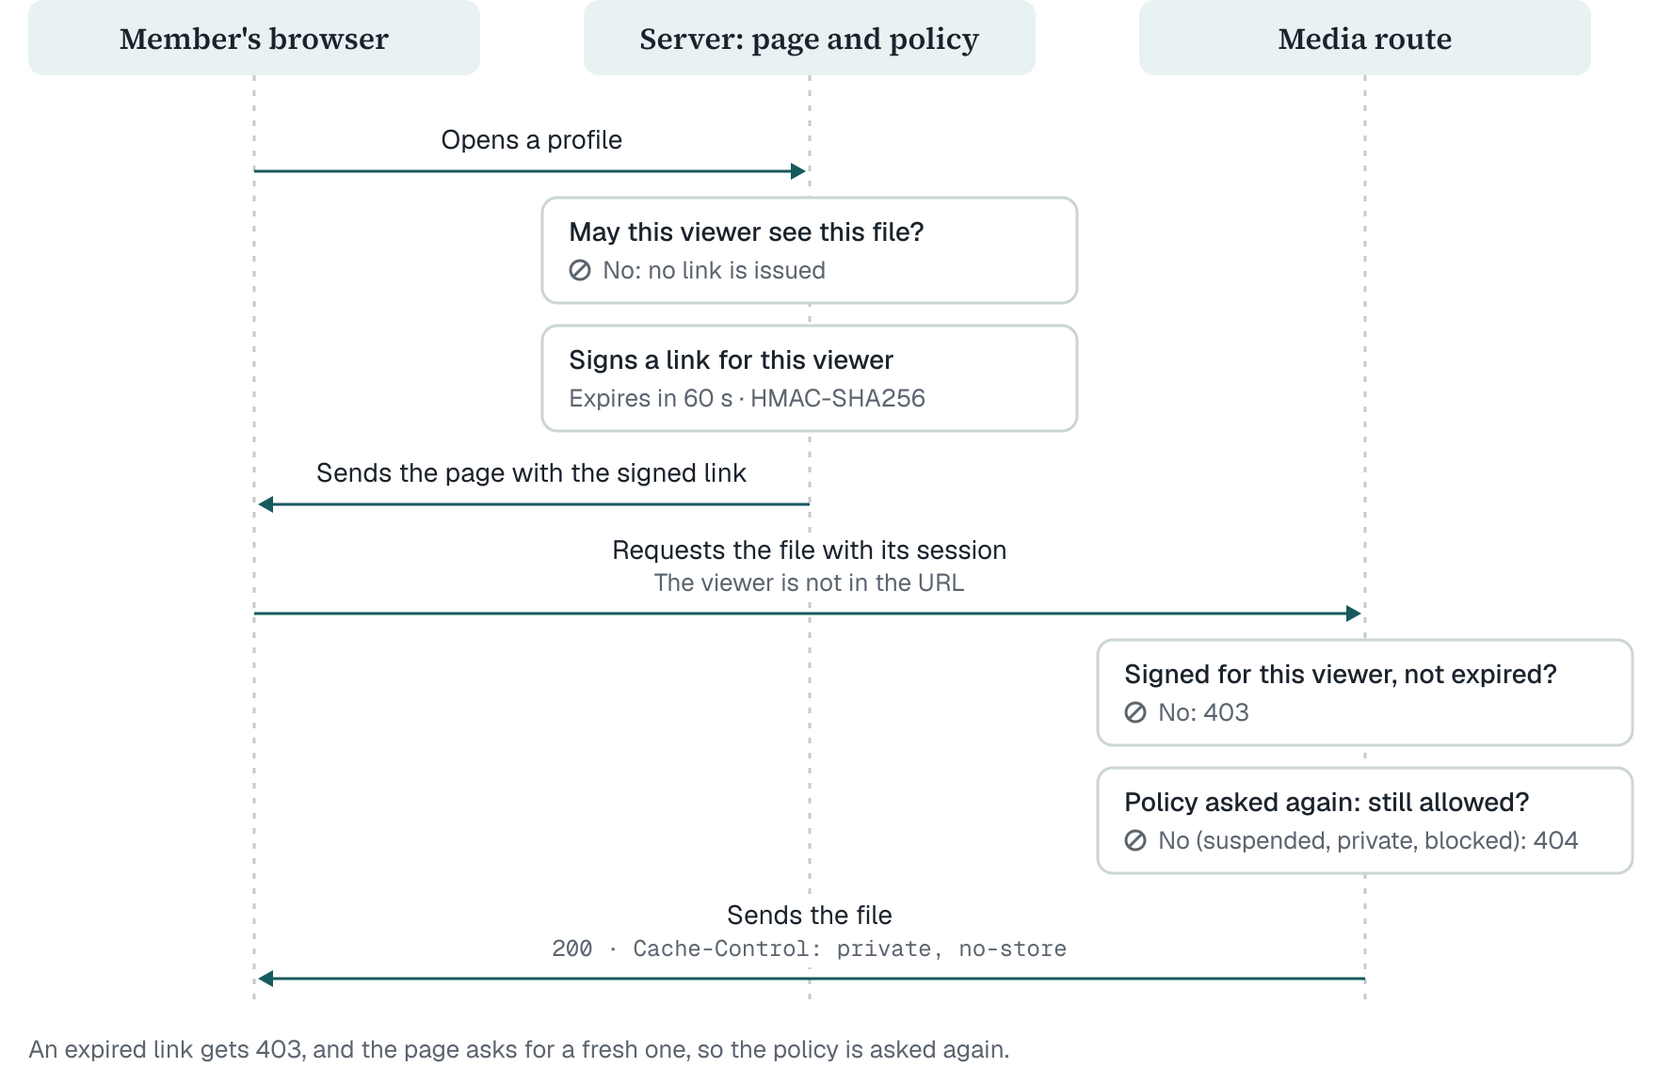
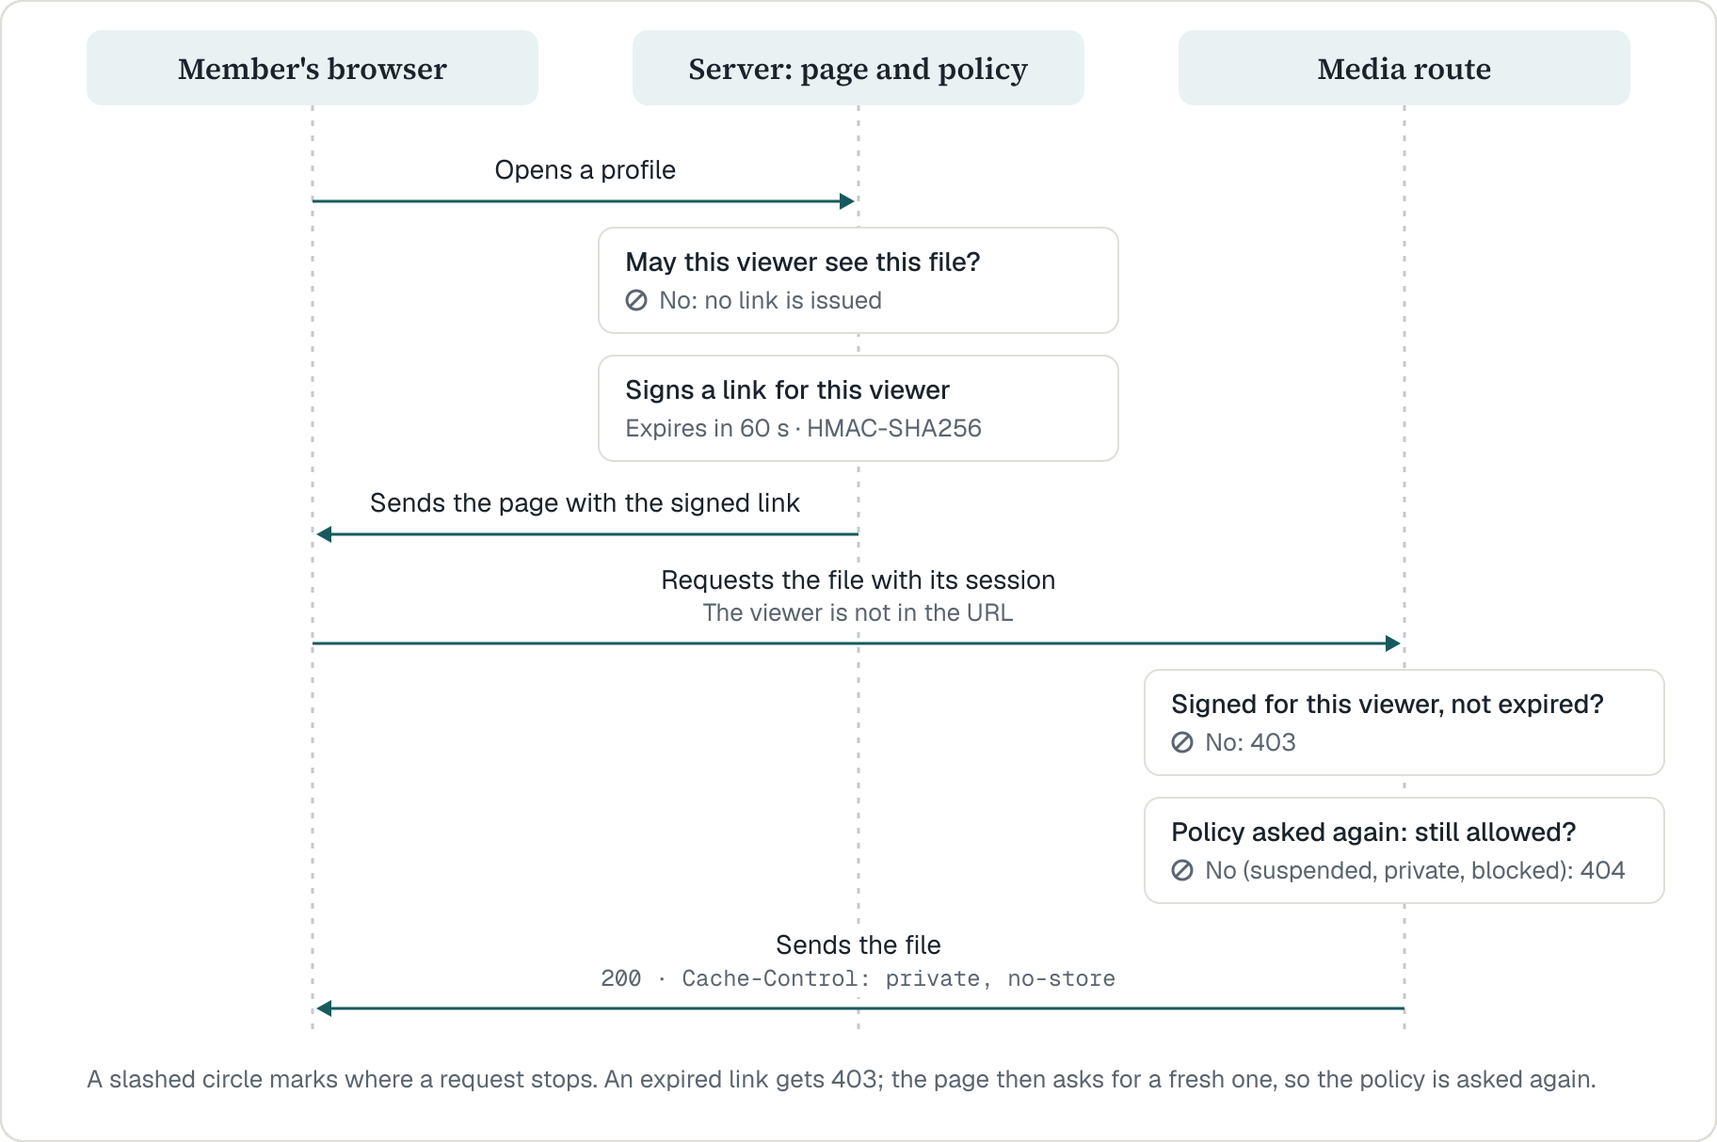
Draw the signed-link diagram at its natural size below 1024 px
Centre the three lanes, outline the boxes in the border colour and draw the
lifelines in muted grey at 35%. The caption names the slashed circle instead
of a colour code, and the README image gets a margin and a thin frame.

diff --git a/components/signed-link-diagram.tsx b/components/signed-link-diagram.tsx
@@ -7,58 +7,58 @@ const SUMMARY =
 
 export function SignedLinkDiagram() {
   return (
-    <figure className="flex flex-col gap-3 rounded-xl bg-card p-3 ring-1 ring-foreground/10 sm:p-5" data-testid="signed-link-diagram">
+    <figure className="flex w-full max-w-[364px] flex-col gap-3 rounded-xl bg-card p-3 ring-1 ring-foreground/10 sm:max-w-[380px] sm:p-5 lg:max-w-none" data-testid="signed-link-diagram">
       <div role="img" aria-label={SUMMARY}>
         <svg viewBox="0 0 880 536" className="hidden h-auto w-full lg:block" aria-hidden="true" focusable="false">
-          <line x1={135} y1={40} x2={135} y2={532} stroke="#c3cccb" strokeWidth={1.5} strokeDasharray="3 5" />
-          <rect x={15} y={0} width={240} height={40} rx={8} fill="#e9f2f3" />
-          <text className="font-heading" x={135} y={26} fontSize={16} fill="#1a222b" fontWeight={600} textAnchor="middle">{"Member's browser"}</text>
-          <line x1={430} y1={40} x2={430} y2={532} stroke="#c3cccb" strokeWidth={1.5} strokeDasharray="3 5" />
-          <rect x={310} y={0} width={240} height={40} rx={8} fill="#e9f2f3" />
-          <text className="font-heading" x={430} y={26} fontSize={16} fill="#1a222b" fontWeight={600} textAnchor="middle">{"Server: page and policy"}</text>
-          <line x1={725} y1={40} x2={725} y2={532} stroke="#c3cccb" strokeWidth={1.5} strokeDasharray="3 5" />
-          <rect x={605} y={0} width={240} height={40} rx={8} fill="#e9f2f3" />
-          <text className="font-heading" x={725} y={26} fontSize={16} fill="#1a222b" fontWeight={600} textAnchor="middle">{"Media route"}</text>
-          <rect x={227.1} y={66} width={110.9} height={19} rx={3} fill="#ffffff" />
-          <text className="font-sans" x={282.5} y={79} fontSize={14} fill="#1a222b" textAnchor="middle">{"Opens a profile"}</text>
-          <line x1={135} y1={91} x2={420} y2={91} stroke="#165a5e" strokeWidth={1.5} />
-          <path d="M428 91L420 86.5L420 95.5Z" fill="#165a5e" />
-          <rect x={288} y={105} width={284} height={56} rx={8} fill="#ffffff" stroke="#cbd5d5" strokeWidth={1.5} />
-          <text className="font-sans" x={302} y={128} fontSize={14} fill="#1a222b" fontWeight={500}>{"May this viewer see this file?"}</text>
-          <circle cx={308} cy={143.5} r={5} fill="none" stroke="#5b646f" strokeWidth={1.5} />
-          <line x1={304.7} y1={146.8} x2={311.3} y2={140.2} stroke="#5b646f" strokeWidth={1.5} />
-          <text className="font-sans" x={320} y={148} fontSize={13} fill="#5b646f">{"No: no link is issued"}</text>
-          <rect x={288} y={173} width={284} height={56} rx={8} fill="#ffffff" stroke="#cbd5d5" strokeWidth={1.5} />
-          <text className="font-sans" x={302} y={196} fontSize={14} fill="#1a222b" fontWeight={500}>{"Signs a link for this viewer"}</text>
-          <text className="font-sans" x={302} y={216} fontSize={13} fill="#5b646f">{"Expires in 60 s · HMAC-SHA256"}</text>
-          <rect x={160.4} y={243} width={244.1} height={19} rx={3} fill="#ffffff" />
-          <text className="font-sans" x={282.5} y={256} fontSize={14} fill="#1a222b" textAnchor="middle">{"Sends the page with the signed link"}</text>
-          <line x1={430} y1={268} x2={145} y2={268} stroke="#165a5e" strokeWidth={1.5} />
-          <path d="M137 268L145 263.5L145 272.5Z" fill="#165a5e" />
-          <rect x={316.5} y={284} width={227} height={19} rx={3} fill="#ffffff" />
-          <text className="font-sans" x={430} y={297} fontSize={14} fill="#1a222b" textAnchor="middle">{"Requests the file with its session"}</text>
-          <rect x={340.1} y={302} width={179.8} height={18} rx={3} fill="#ffffff" />
-          <text className="font-sans" x={430} y={314} fontSize={13} fill="#5b646f" textAnchor="middle">{"The viewer is not in the URL"}</text>
-          <line x1={135} y1={326} x2={715} y2={326} stroke="#165a5e" strokeWidth={1.5} />
-          <path d="M723 326L715 321.5L715 330.5Z" fill="#165a5e" />
-          <rect x={583} y={340} width={284} height={56} rx={8} fill="#ffffff" stroke="#cbd5d5" strokeWidth={1.5} />
-          <text className="font-sans" x={597} y={363} fontSize={14} fill="#1a222b" fontWeight={500}>{"Signed for this viewer, not expired?"}</text>
-          <circle cx={603} cy={378.5} r={5} fill="none" stroke="#5b646f" strokeWidth={1.5} />
-          <line x1={599.7} y1={381.8} x2={606.3} y2={375.2} stroke="#5b646f" strokeWidth={1.5} />
-          <text className="font-sans" x={615} y={383} fontSize={13} fill="#5b646f">{"No: 403"}</text>
-          <rect x={583} y={408} width={284} height={56} rx={8} fill="#ffffff" stroke="#cbd5d5" strokeWidth={1.5} />
-          <text className="font-sans" x={597} y={431} fontSize={14} fill="#1a222b" fontWeight={500}>{"Policy asked again: still allowed?"}</text>
-          <circle cx={603} cy={446.5} r={5} fill="none" stroke="#5b646f" strokeWidth={1.5} />
-          <line x1={599.7} y1={449.8} x2={606.3} y2={443.2} stroke="#5b646f" strokeWidth={1.5} />
-          <text className="font-sans" x={615} y={451} fontSize={13} fill="#5b646f">{"No (suspended, private, blocked): 404"}</text>
-          <rect x={379.2} y={478} width={101.6} height={19} rx={3} fill="#ffffff" />
-          <text className="font-sans" x={430} y={491} fontSize={14} fill="#1a222b" textAnchor="middle">{"Sends the file"}</text>
-          <rect x={287.2} y={497} width={285.6} height={17} rx={3} fill="#ffffff" />
-          <text className="font-mono" x={430} y={508} fontSize={12} fill="#5b646f" textAnchor="middle">{"200 · Cache-Control: private, no-store"}</text>
-          <line x1={725} y1={520} x2={145} y2={520} stroke="#165a5e" strokeWidth={1.5} />
-          <path d="M137 520L145 515.5L145 524.5Z" fill="#165a5e" />
+          <line x1={150} y1={40} x2={150} y2={532} stroke="#5b646f" strokeWidth={1.5} strokeOpacity="0.35" strokeDasharray="3 5" />
+          <rect x={30} y={0} width={240} height={40} rx={8} fill="#e9f2f3" />
+          <text className="font-heading" x={150} y={26} fontSize={16} fill="#1a222b" fontWeight={600} textAnchor="middle">{"Member's browser"}</text>
+          <line x1={440} y1={40} x2={440} y2={532} stroke="#5b646f" strokeWidth={1.5} strokeOpacity="0.35" strokeDasharray="3 5" />
+          <rect x={320} y={0} width={240} height={40} rx={8} fill="#e9f2f3" />
+          <text className="font-heading" x={440} y={26} fontSize={16} fill="#1a222b" fontWeight={600} textAnchor="middle">{"Server: page and policy"}</text>
+          <line x1={730} y1={40} x2={730} y2={532} stroke="#5b646f" strokeWidth={1.5} strokeOpacity="0.35" strokeDasharray="3 5" />
+          <rect x={610} y={0} width={240} height={40} rx={8} fill="#e9f2f3" />
+          <text className="font-heading" x={730} y={26} fontSize={16} fill="#1a222b" fontWeight={600} textAnchor="middle">{"Media route"}</text>
+          <rect x={239.6} y={66} width={110.9} height={19} rx={3} fill="#ffffff" />
+          <text className="font-sans" x={295} y={79} fontSize={14} fill="#1a222b" textAnchor="middle">{"Opens a profile"}</text>
+          <line x1={150} y1={91} x2={430} y2={91} stroke="#165a5e" strokeWidth={1.5} />
+          <path d="M438 91L430 86.5L430 95.5Z" fill="#165a5e" />
+          <rect x={302} y={105} width={276} height={56} rx={8} fill="#ffffff" stroke="#e0ded8" strokeWidth={1} />
+          <text className="font-sans" x={316} y={128} fontSize={14} fill="#1a222b" fontWeight={500}>{"May this viewer see this file?"}</text>
+          <circle cx={322} cy={143.5} r={5} fill="none" stroke="#5b646f" strokeWidth={1.5} />
+          <line x1={318.7} y1={146.8} x2={325.3} y2={140.2} stroke="#5b646f" strokeWidth={1.5} />
+          <text className="font-sans" x={334} y={148} fontSize={13} fill="#5b646f">{"No: no link is issued"}</text>
+          <rect x={302} y={173} width={276} height={56} rx={8} fill="#ffffff" stroke="#e0ded8" strokeWidth={1} />
+          <text className="font-sans" x={316} y={196} fontSize={14} fill="#1a222b" fontWeight={500}>{"Signs a link for this viewer"}</text>
+          <text className="font-sans" x={316} y={216} fontSize={13} fill="#5b646f">{"Expires in 60 s · HMAC-SHA256"}</text>
+          <rect x={172.9} y={243} width={244.1} height={19} rx={3} fill="#ffffff" />
+          <text className="font-sans" x={295} y={256} fontSize={14} fill="#1a222b" textAnchor="middle">{"Sends the page with the signed link"}</text>
+          <line x1={440} y1={268} x2={160} y2={268} stroke="#165a5e" strokeWidth={1.5} />
+          <path d="M152 268L160 263.5L160 272.5Z" fill="#165a5e" />
+          <rect x={326.5} y={284} width={227} height={19} rx={3} fill="#ffffff" />
+          <text className="font-sans" x={440} y={297} fontSize={14} fill="#1a222b" textAnchor="middle">{"Requests the file with its session"}</text>
+          <rect x={350.1} y={302} width={179.8} height={18} rx={3} fill="#ffffff" />
+          <text className="font-sans" x={440} y={314} fontSize={13} fill="#5b646f" textAnchor="middle">{"The viewer is not in the URL"}</text>
+          <line x1={150} y1={326} x2={720} y2={326} stroke="#165a5e" strokeWidth={1.5} />
+          <path d="M728 326L720 321.5L720 330.5Z" fill="#165a5e" />
+          <rect x={592} y={340} width={276} height={56} rx={8} fill="#ffffff" stroke="#e0ded8" strokeWidth={1} />
+          <text className="font-sans" x={606} y={363} fontSize={14} fill="#1a222b" fontWeight={500}>{"Signed for this viewer, not expired?"}</text>
+          <circle cx={612} cy={378.5} r={5} fill="none" stroke="#5b646f" strokeWidth={1.5} />
+          <line x1={608.7} y1={381.8} x2={615.3} y2={375.2} stroke="#5b646f" strokeWidth={1.5} />
+          <text className="font-sans" x={624} y={383} fontSize={13} fill="#5b646f">{"No: 403"}</text>
+          <rect x={592} y={408} width={276} height={56} rx={8} fill="#ffffff" stroke="#e0ded8" strokeWidth={1} />
+          <text className="font-sans" x={606} y={431} fontSize={14} fill="#1a222b" fontWeight={500}>{"Policy asked again: still allowed?"}</text>
+          <circle cx={612} cy={446.5} r={5} fill="none" stroke="#5b646f" strokeWidth={1.5} />
+          <line x1={608.7} y1={449.8} x2={615.3} y2={443.2} stroke="#5b646f" strokeWidth={1.5} />
+          <text className="font-sans" x={624} y={451} fontSize={13} fill="#5b646f">{"No (suspended, private, blocked): 404"}</text>
+          <rect x={389.2} y={478} width={101.6} height={19} rx={3} fill="#ffffff" />
+          <text className="font-sans" x={440} y={491} fontSize={14} fill="#1a222b" textAnchor="middle">{"Sends the file"}</text>
+          <rect x={297.2} y={497} width={285.6} height={17} rx={3} fill="#ffffff" />
+          <text className="font-mono" x={440} y={508} fontSize={12} fill="#5b646f" textAnchor="middle">{"200 · Cache-Control: private, no-store"}</text>
+          <line x1={730} y1={520} x2={160} y2={520} stroke="#165a5e" strokeWidth={1.5} />
+          <path d="M152 520L160 515.5L160 524.5Z" fill="#165a5e" />
         </svg>
-        <svg viewBox="0 0 340 636" className="mx-auto block h-auto w-full max-w-[400px] lg:hidden" aria-hidden="true" focusable="false">
+        <svg viewBox="0 0 340 636" className="block h-auto w-full lg:hidden" aria-hidden="true" focusable="false">
           <rect x={8} y={0} width={220} height={32} rx={8} fill="#e9f2f3" />
           <text className="font-heading" x={20} y={21.5} fontSize={15} fill="#1a222b" fontWeight={600}>{"Member's browser"}</text>
           <line x1={30} y1={38} x2={30} y2={59} stroke="#165a5e" strokeWidth={1.5} />
@@ -66,14 +66,14 @@ export function SignedLinkDiagram() {
           <text className="font-sans" x={46} y={57} fontSize={14} fill="#1a222b">{"Opens a profile"}</text>
           <rect x={8} y={73} width={220} height={32} rx={8} fill="#e9f2f3" />
           <text className="font-heading" x={20} y={94.5} fontSize={15} fill="#1a222b" fontWeight={600}>{"Server: page and policy"}</text>
-          <rect x={8} y={113} width={324} height={56} rx={8} fill="#ffffff" stroke="#cbd5d5" strokeWidth={1.5} />
+          <rect x={8} y={113} width={324} height={56} rx={8} fill="#ffffff" stroke="#e0ded8" strokeWidth={1} />
           <text className="font-sans" x={22} y={136} fontSize={14} fill="#1a222b" fontWeight={500}>{"May this viewer see this file?"}</text>
           <circle cx={28} cy={151.5} r={5} fill="none" stroke="#5b646f" strokeWidth={1.5} />
           <line x1={24.7} y1={154.8} x2={31.3} y2={148.2} stroke="#5b646f" strokeWidth={1.5} />
           <text className="font-sans" x={40} y={156} fontSize={13} fill="#5b646f">{"No: no link is issued"}</text>
           <line x1={30} y1={172} x2={30} y2={176} stroke="#165a5e" strokeWidth={1.5} />
           <path d="M30 184L25.5 176L34.5 176Z" fill="#165a5e" />
-          <rect x={8} y={187} width={324} height={56} rx={8} fill="#ffffff" stroke="#cbd5d5" strokeWidth={1.5} />
+          <rect x={8} y={187} width={324} height={56} rx={8} fill="#ffffff" stroke="#e0ded8" strokeWidth={1} />
           <text className="font-sans" x={22} y={210} fontSize={14} fill="#1a222b" fontWeight={500}>{"Signs a link for this viewer"}</text>
           <text className="font-sans" x={22} y={230} fontSize={13} fill="#5b646f">{"Expires in 60 s · HMAC-SHA256"}</text>
           <line x1={30} y1={249} x2={30} y2={270} stroke="#165a5e" strokeWidth={1.5} />
@@ -87,14 +87,14 @@ export function SignedLinkDiagram() {
           <text className="font-sans" x={46} y={358} fontSize={13} fill="#5b646f">{"The viewer is not in the URL"}</text>
           <rect x={8} y={374} width={220} height={32} rx={8} fill="#e9f2f3" />
           <text className="font-heading" x={20} y={395.5} fontSize={15} fill="#1a222b" fontWeight={600}>{"Media route"}</text>
-          <rect x={8} y={414} width={324} height={56} rx={8} fill="#ffffff" stroke="#cbd5d5" strokeWidth={1.5} />
+          <rect x={8} y={414} width={324} height={56} rx={8} fill="#ffffff" stroke="#e0ded8" strokeWidth={1} />
           <text className="font-sans" x={22} y={437} fontSize={14} fill="#1a222b" fontWeight={500}>{"Signed for this viewer, not expired?"}</text>
           <circle cx={28} cy={452.5} r={5} fill="none" stroke="#5b646f" strokeWidth={1.5} />
           <line x1={24.7} y1={455.8} x2={31.3} y2={449.2} stroke="#5b646f" strokeWidth={1.5} />
           <text className="font-sans" x={40} y={457} fontSize={13} fill="#5b646f">{"No: 403"}</text>
           <line x1={30} y1={473} x2={30} y2={477} stroke="#165a5e" strokeWidth={1.5} />
           <path d="M30 485L25.5 477L34.5 477Z" fill="#165a5e" />
-          <rect x={8} y={488} width={324} height={56} rx={8} fill="#ffffff" stroke="#cbd5d5" strokeWidth={1.5} />
+          <rect x={8} y={488} width={324} height={56} rx={8} fill="#ffffff" stroke="#e0ded8" strokeWidth={1} />
           <text className="font-sans" x={22} y={511} fontSize={14} fill="#1a222b" fontWeight={500}>{"Policy asked again: still allowed?"}</text>
           <circle cx={28} cy={526.5} r={5} fill="none" stroke="#5b646f" strokeWidth={1.5} />
           <line x1={24.7} y1={529.8} x2={31.3} y2={523.2} stroke="#5b646f" strokeWidth={1.5} />
@@ -107,7 +107,7 @@ export function SignedLinkDiagram() {
           <text className="font-heading" x={20} y={623.5} fontSize={15} fill="#1a222b" fontWeight={600}>{"Member's browser"}</text>
         </svg>
       </div>
-      <figcaption className="text-sm text-muted-foreground">Teal is the path when every check passes; grey marks where a request stops. An expired link gets 403, and the page asks for a fresh one, so the policy is asked again.</figcaption>
+      <figcaption className="text-sm text-muted-foreground">A slashed circle marks where a request stops. An expired link gets 403; the page then asks for a fresh one, so the policy is asked again.</figcaption>
     </figure>
   );
 }

diff --git a/design/make_diagram.py b/design/make_diagram.py
@@ -5,11 +5,14 @@ The steps are data (STEPS below), and two layouts are drawn from the same list:
 - wide: three lanes (the member's browser, the server, the media route), shown from 1024 px up;
 - narrow: one column with the lane named above each group, shown on phones and tablets.
 
-Teal is the path a request takes when every check passes. Grey marks where it is refused.
+Teal arrows are the path a request takes when every check passes. A slashed circle marks where it
+is refused. Box outlines use the site's --border colour and the lifelines are the muted grey at 35%,
+so the diagram's lines are no heavier than the card around it.
 
 Writes components/signed-link-diagram.tsx (inline SVG that uses the page's own fonts, so the
 text stays sharp and selectable) and build/diagram/signed-link-{wide,narrow}.svg with the font
-names spelled out, which design/build.sh renders to design/signed-link-flow.png for the README.
+names spelled out, a 16-unit margin and a thin frame, which design/build.sh renders to
+design/signed-link-flow.png for the README.
 Text widths come from build/fonts/Geist.ttf when design/extract_fonts.py has run; otherwise an
 average glyph width is used. Standard library only.
 
@@ -27,9 +30,10 @@ TEAL = "#165a5e"
 INK = "#1a222b"
 GREY = "#5b646f"
 TINT = "#e9f2f3"
-BORDER = "#cbd5d5"
-LIFELINE = "#c3cccb"
+BORDER = "#e0ded8"  # --border
+LIFELINE_OPACITY = "0.35"  # the lifelines are GREY at this opacity
 CARD = "#ffffff"
+PAD = 16  # margin around the standalone SVGs, so the README image does not touch its edges
 
 LANES = ["Member's browser", "Server: page and policy", "Media route"]
 BROWSER, SERVER, MEDIA = 0, 1, 2
@@ -46,14 +50,17 @@ STEPS = [
     {"kind": "check", "lane": MEDIA, "text": "Policy asked again: still allowed?", "no": "No (suspended, private, blocked): 404"},
     {"kind": "send", "from": MEDIA, "to": BROWSER, "text": "Sends the file", "note": "200 · Cache-Control: private, no-store", "note_font": "mono"},
 ]
-FOOTNOTE = "An expired link gets 403, and the page asks for a fresh one, so the policy is asked again."
+FOOTNOTE = (
+    "A slashed circle marks where a request stops. An expired link gets 403; the page then asks for a fresh one, "
+    "so the policy is asked again."
+)
 SUMMARY = (
     "Diagram of the signed-link flow. The server asks the policy before it issues a link, and the media route checks "
     "the signature and asks the policy again when the link is used. A request is refused with no link, with 403 for "
     "a wrong or expired signature, or with 404 when the policy says no. The same steps are listed below."
 )
-# On the page the footnote joins the caption under the figure; the README image carries it inside.
-CAPTION = "Teal is the path when every check passes; grey marks where a request stops. " + FOOTNOTE
+# On the page the footnote is the caption under the figure; the README image carries it inside.
+CAPTION = FOOTNOTE
 
 FONTS = {"serif": ("Source Serif 4", "font-heading"), "sans": ("Geist", "font-sans"), "mono": ("Geist Mono", "font-mono")}
 LANE_SIZE, LABEL_SIZE, DETAIL_SIZE, MONO_SIZE = 16, 14, 13, 12
@@ -167,12 +174,14 @@ def txt(x, y, s, size, font="sans", weight=400, fill=INK, anchor="start", limit=
 def rect(x, y, w, h, rx, fill, stroke=None):
     attrs = {"x": x, "y": y, "width": w, "height": h, "rx": rx, "fill": fill}
     if stroke:
-        attrs.update({"stroke": stroke, "stroke-width": 1.5})
+        attrs.update({"stroke": stroke, "stroke-width": 1})
     return el("rect", attrs)
 
 
-def line(x1, y1, x2, y2, colour, dash=None):
+def line(x1, y1, x2, y2, colour, dash=None, opacity=None):
     attrs = {"x1": x1, "y1": y1, "x2": x2, "y2": y2, "stroke": colour, "stroke-width": 1.5}
+    if opacity:
+        attrs["stroke-opacity"] = opacity
     if dash:
         attrs["stroke-dasharray"] = dash
     return el("line", attrs)
@@ -239,8 +248,8 @@ def send_label(cx, y, step, limit):
 
 def wide():
     w = 880
-    lane_x = [135, 430, 725]
-    box_w = 284
+    lane_x = [150, 440, 730]  # centred: the lane pills leave 30 units on each side
+    box_w = 276
     body, y = [], 64
     for step in STEPS:
         if step["kind"] == "send":
@@ -256,11 +265,14 @@ def wide():
     end = y - 2
     lanes = []
     for i, name in enumerate(LANES):
-        lanes.append(line(lane_x[i], 40, lane_x[i], end, LIFELINE, "3 5"))
+        lanes.append(line(lane_x[i], 40, lane_x[i], end, GREY, "3 5", LIFELINE_OPACITY))
         lanes.append(rect(lane_x[i] - 120, 0, 240, 40, 8, TINT))
         lanes.append(txt(lane_x[i], 26, name, LANE_SIZE, "serif", 600, anchor="middle", limit=224))
-    foot = [txt(15, end + 30, FOOTNOTE, DETAIL_SIZE, fill=GREY, limit=w - 30)]
-    return w, end + 4, end + 44, lanes + body, foot
+    foot, fy = [], end + 30
+    for line_text in wrap(FOOTNOTE, DETAIL_SIZE, w - 60):
+        foot.append(txt(30, fy, line_text, DETAIL_SIZE, fill=GREY))
+        fy += LINE
+    return w, end + 4, fy - 4, lanes + body, foot
 
 
 def narrow():
@@ -349,10 +361,13 @@ def render(node, mode, depth):
 
 
 def standalone(w, h, nodes):
+    """The diagram on a white card with a PAD margin and a 1-unit frame in the border colour."""
     body = "\n".join(render(n, "svg", 1) for n in nodes)
+    fw, fh = w + 2 * PAD, h + 2 * PAD
     return (
-        f'<svg xmlns="http://www.w3.org/2000/svg" width="{num(w)}" height="{num(h)}" viewBox="0 0 {num(w)} {num(h)}">\n'
-        f'  <rect width="{num(w)}" height="{num(h)}" fill="{CARD}"/>\n{body}\n</svg>\n'
+        f'<svg xmlns="http://www.w3.org/2000/svg" width="{num(fw)}" height="{num(fh)}" viewBox="{-PAD} {-PAD} {num(fw)} {num(fh)}">\n'
+        f'  <rect x="{-PAD + 0.5}" y="{-PAD + 0.5}" width="{num(fw - 1)}" height="{num(fh - 1)}" rx="12" fill="{CARD}" stroke="{BORDER}"/>\n'
+        f"{body}\n</svg>\n"
     )
 
 
@@ -373,7 +388,7 @@ const SUMMARY =
 
 export function SignedLinkDiagram() {{
   return (
-    <figure className="flex flex-col gap-3 rounded-xl bg-card p-3 ring-1 ring-foreground/10 sm:p-5" data-testid="signed-link-diagram">
+    <figure className="flex w-full max-w-[364px] flex-col gap-3 rounded-xl bg-card p-3 ring-1 ring-foreground/10 sm:max-w-[380px] sm:p-5 lg:max-w-none" data-testid="signed-link-diagram">
       <div role="img" aria-label={{SUMMARY}}>
 {wide}
 {narrow}
@@ -402,7 +417,7 @@ def main():
         COMPONENT.format(
             summary=json.dumps(SUMMARY),
             wide=inline(ww, wh, wide_nodes, "hidden h-auto w-full lg:block"),
-            narrow=inline(nw, nh, narrow_nodes, "mx-auto block h-auto w-full max-w-[400px] lg:hidden"),
+            narrow=inline(nw, nh, narrow_nodes, "block h-auto w-full lg:hidden"),
             caption=CAPTION,
         ),
     )
